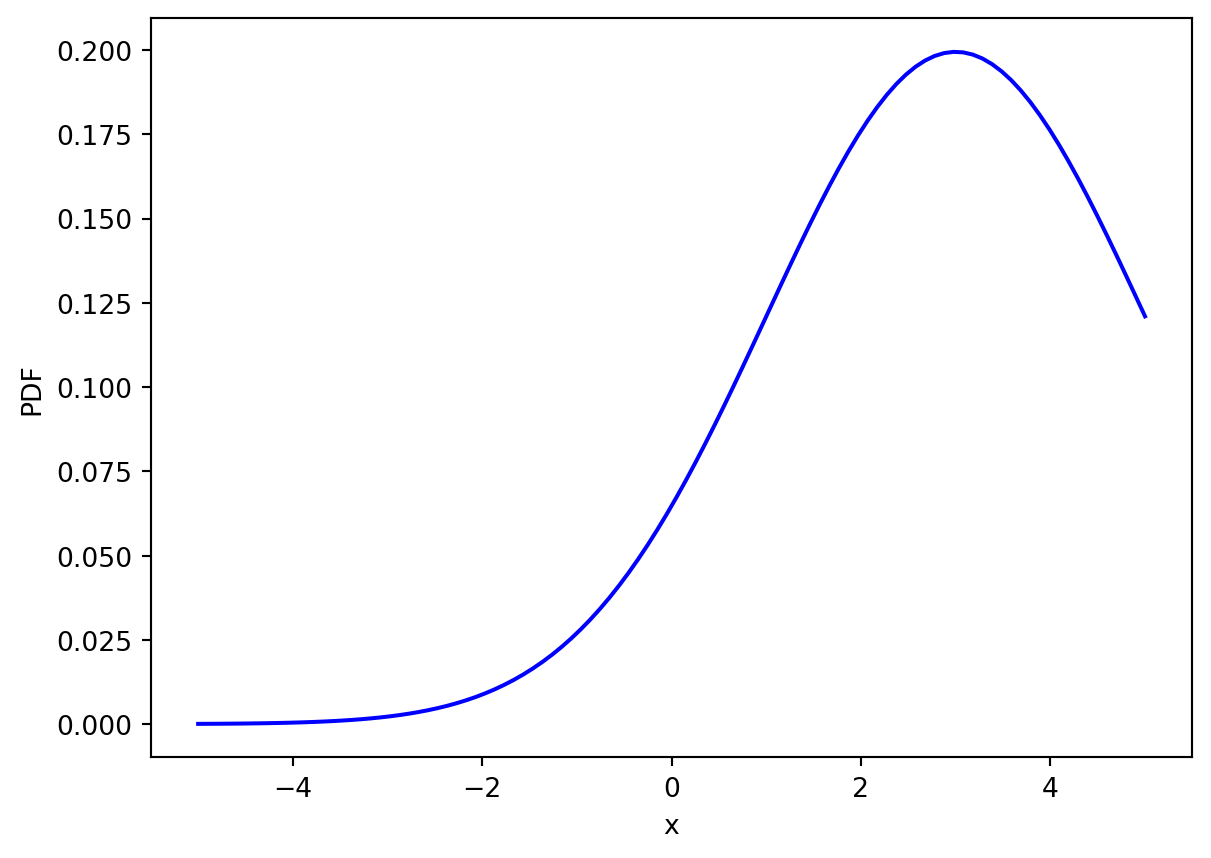
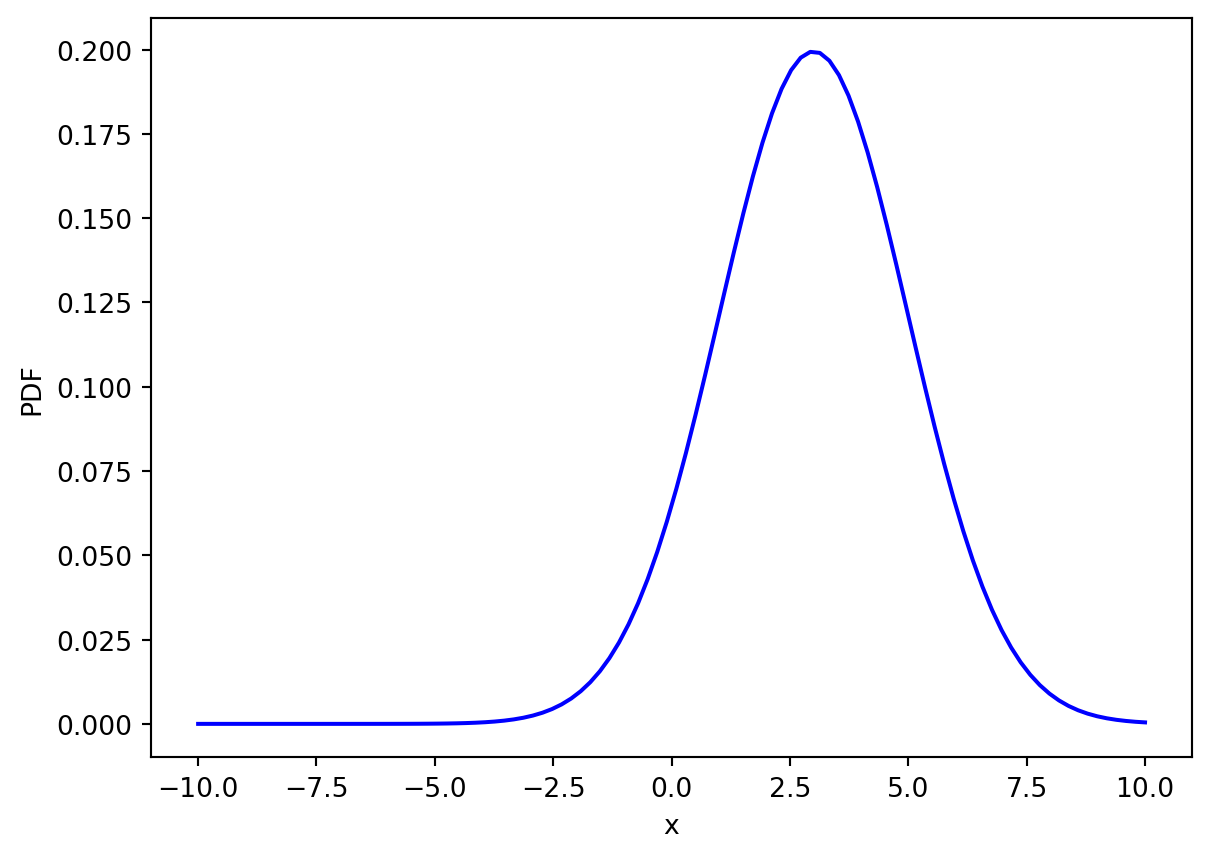
hw3

diff --git a/docs/posts/hw3/index.html b/docs/posts/hw3/index.html
@@ -198,7 +198,7 @@ pre > code.sourceCode > span > a:first-child::before { text-decoration: underlin
 
 <section id="정규분포-pdf-값을-계산하는-자신만의-파이썬-함수를-정의하고-정규분포-mu-3-sigma-2의-pdf를-그릴-것.-def-사용" class="level3">
 <h3 class="anchored" data-anchor-id="정규분포-pdf-값을-계산하는-자신만의-파이썬-함수를-정의하고-정규분포-mu-3-sigma-2의-pdf를-그릴-것.-def-사용">1. 정규분포 pdf 값을 계산하는 자신만의 파이썬 함수를 정의하고, 정규분포 mu = 3, sigma = 2의 pdf를 그릴 것. (def 사용)</h3>
-<div id="93d00500" class="cell" data-execution_count="1">
+<div id="8589307b" class="cell" data-execution_count="1">
 <div class="sourceCode cell-code" id="cb1"><pre class="sourceCode python code-with-copy"><code class="sourceCode python"><span id="cb1-1"><a href="#cb1-1" aria-hidden="true" tabindex="-1"></a><span class="co">#기본 코드 </span></span>
 <span id="cb1-2"><a href="#cb1-2" aria-hidden="true" tabindex="-1"></a><span class="co">#terminal에 쳐주고 시작하기 -&gt; pip install pandas</span></span>
 <span id="cb1-3"><a href="#cb1-3" aria-hidden="true" tabindex="-1"></a><span class="im">import</span> pandas <span class="im">as</span> pd </span>
@@ -206,30 +206,28 @@ pre > code.sourceCode > span > a:first-child::before { text-decoration: underlin
 <span id="cb1-5"><a href="#cb1-5" aria-hidden="true" tabindex="-1"></a><span class="im">from</span> scipy.stats <span class="im">import</span> norm</span>
 <span id="cb1-6"><a href="#cb1-6" aria-hidden="true" tabindex="-1"></a><span class="im">import</span> matplotlib.pyplot <span class="im">as</span> plt</span></code><button title="Copy to Clipboard" class="code-copy-button"><i class="bi"></i></button></pre></div>
 </div>
-<div id="14753db8" class="cell" data-execution_count="2">
-<div class="sourceCode cell-code" id="cb2"><pre class="sourceCode python code-with-copy"><code class="sourceCode python"><span id="cb2-1"><a href="#cb2-1" aria-hidden="true" tabindex="-1"></a><span class="co">#loc -&gt; mu</span></span>
-<span id="cb2-2"><a href="#cb2-2" aria-hidden="true" tabindex="-1"></a><span class="co">#scale -&gt; sigma</span></span>
-<span id="cb2-3"><a href="#cb2-3" aria-hidden="true" tabindex="-1"></a><span class="co">#정규분포 pdf -&gt; norm.pdf(x, mu, sigma) </span></span>
-<span id="cb2-4"><a href="#cb2-4" aria-hidden="true" tabindex="-1"></a></span>
-<span id="cb2-5"><a href="#cb2-5" aria-hidden="true" tabindex="-1"></a><span class="kw">def</span> normal_pdf(x, mu, sigma) : </span>
-<span id="cb2-6"><a href="#cb2-6" aria-hidden="true" tabindex="-1"></a>    <span class="co">"정규분포의 pdf를 계산하는 함수 </span><span class="ch">\</span></span>
-<span id="cb2-7"><a href="#cb2-7" aria-hidden="true" tabindex="-1"></a><span class="co">    loc -&gt; mu </span><span class="ch">\</span></span>
-<span id="cb2-8"><a href="#cb2-8" aria-hidden="true" tabindex="-1"></a><span class="co">    scale -&gt; sigma"</span></span>
+<div id="86e2d755" class="cell" data-execution_count="2">
+<div class="sourceCode cell-code" id="cb2"><pre class="sourceCode python code-with-copy"><code class="sourceCode python"><span id="cb2-1"><a href="#cb2-1" aria-hidden="true" tabindex="-1"></a><span class="co">#정규분포 pdf -&gt; norm.pdf(x, mu, sigma) </span></span>
+<span id="cb2-2"><a href="#cb2-2" aria-hidden="true" tabindex="-1"></a></span>
+<span id="cb2-3"><a href="#cb2-3" aria-hidden="true" tabindex="-1"></a><span class="kw">def</span> normal_pdf(x, mu, sigma) : </span>
+<span id="cb2-4"><a href="#cb2-4" aria-hidden="true" tabindex="-1"></a>    <span class="co">"정규분포의 pdf를 계산하는 함수 </span><span class="ch">\</span></span>
+<span id="cb2-5"><a href="#cb2-5" aria-hidden="true" tabindex="-1"></a><span class="co">    #loc -&gt; mu </span><span class="ch">\</span></span>
+<span id="cb2-6"><a href="#cb2-6" aria-hidden="true" tabindex="-1"></a><span class="co">    #scale -&gt; sigma"</span></span>
+<span id="cb2-7"><a href="#cb2-7" aria-hidden="true" tabindex="-1"></a>    </span>
+<span id="cb2-8"><a href="#cb2-8" aria-hidden="true" tabindex="-1"></a>    <span class="cf">return</span> (<span class="dv">1</span> <span class="op">/</span> (sigma <span class="op">*</span> np.sqrt(<span class="dv">2</span> <span class="op">*</span> np.pi))) <span class="op">*</span> np.exp(<span class="op">-</span>((x <span class="op">-</span> mu) <span class="op">**</span> <span class="dv">2</span>) <span class="op">/</span> (<span class="dv">2</span> <span class="op">*</span> sigma <span class="op">**</span> <span class="dv">2</span>))</span>
 <span id="cb2-9"><a href="#cb2-9" aria-hidden="true" tabindex="-1"></a>    </span>
-<span id="cb2-10"><a href="#cb2-10" aria-hidden="true" tabindex="-1"></a>    <span class="cf">return</span> (<span class="dv">1</span> <span class="op">/</span> (sigma <span class="op">*</span> np.sqrt(<span class="dv">2</span> <span class="op">*</span> np.pi))) <span class="op">*</span> np.exp(<span class="op">-</span>((x <span class="op">-</span> mu) <span class="op">**</span> <span class="dv">2</span>) <span class="op">/</span> (<span class="dv">2</span> <span class="op">*</span> sigma <span class="op">**</span> <span class="dv">2</span>))</span>
-<span id="cb2-11"><a href="#cb2-11" aria-hidden="true" tabindex="-1"></a>    </span>
-<span id="cb2-12"><a href="#cb2-12" aria-hidden="true" tabindex="-1"></a>mu <span class="op">=</span> <span class="dv">3</span></span>
-<span id="cb2-13"><a href="#cb2-13" aria-hidden="true" tabindex="-1"></a>sigma <span class="op">=</span> <span class="dv">2</span></span>
-<span id="cb2-14"><a href="#cb2-14" aria-hidden="true" tabindex="-1"></a></span>
-<span id="cb2-15"><a href="#cb2-15" aria-hidden="true" tabindex="-1"></a>x <span class="op">=</span> np.linspace(<span class="op">-</span><span class="dv">5</span>, <span class="dv">5</span>, <span class="dv">100</span>)</span>
-<span id="cb2-16"><a href="#cb2-16" aria-hidden="true" tabindex="-1"></a>pdf <span class="op">=</span> normal_pdf(x, mu, sigma)</span>
-<span id="cb2-17"><a href="#cb2-17" aria-hidden="true" tabindex="-1"></a></span>
-<span id="cb2-18"><a href="#cb2-18" aria-hidden="true" tabindex="-1"></a><span class="co">#그래프</span></span>
-<span id="cb2-19"><a href="#cb2-19" aria-hidden="true" tabindex="-1"></a>plt.plot(x, pdf, color <span class="op">=</span> <span class="st">"blue"</span>)</span>
-<span id="cb2-20"><a href="#cb2-20" aria-hidden="true" tabindex="-1"></a>plt.xlabel(<span class="st">'x'</span>)</span>
-<span id="cb2-21"><a href="#cb2-21" aria-hidden="true" tabindex="-1"></a>plt.ylabel(<span class="st">'PDF'</span>)</span>
-<span id="cb2-22"><a href="#cb2-22" aria-hidden="true" tabindex="-1"></a>plt.show()</span>
-<span id="cb2-23"><a href="#cb2-23" aria-hidden="true" tabindex="-1"></a>plt.clf()</span></code><button title="Copy to Clipboard" class="code-copy-button"><i class="bi"></i></button></pre></div>
+<span id="cb2-10"><a href="#cb2-10" aria-hidden="true" tabindex="-1"></a>mu <span class="op">=</span> <span class="dv">3</span></span>
+<span id="cb2-11"><a href="#cb2-11" aria-hidden="true" tabindex="-1"></a>sigma <span class="op">=</span> <span class="dv">2</span></span>
+<span id="cb2-12"><a href="#cb2-12" aria-hidden="true" tabindex="-1"></a></span>
+<span id="cb2-13"><a href="#cb2-13" aria-hidden="true" tabindex="-1"></a>x <span class="op">=</span> np.linspace(<span class="op">-</span><span class="dv">10</span>, <span class="dv">10</span>, <span class="dv">100</span>)</span>
+<span id="cb2-14"><a href="#cb2-14" aria-hidden="true" tabindex="-1"></a>pdf <span class="op">=</span> normal_pdf(x, mu, sigma)</span>
+<span id="cb2-15"><a href="#cb2-15" aria-hidden="true" tabindex="-1"></a></span>
+<span id="cb2-16"><a href="#cb2-16" aria-hidden="true" tabindex="-1"></a><span class="co">#그래프</span></span>
+<span id="cb2-17"><a href="#cb2-17" aria-hidden="true" tabindex="-1"></a>plt.plot(x, pdf, color <span class="op">=</span> <span class="st">"blue"</span>)</span>
+<span id="cb2-18"><a href="#cb2-18" aria-hidden="true" tabindex="-1"></a>plt.xlabel(<span class="st">'x'</span>)</span>
+<span id="cb2-19"><a href="#cb2-19" aria-hidden="true" tabindex="-1"></a>plt.ylabel(<span class="st">'PDF'</span>)</span>
+<span id="cb2-20"><a href="#cb2-20" aria-hidden="true" tabindex="-1"></a>plt.show()</span>
+<span id="cb2-21"><a href="#cb2-21" aria-hidden="true" tabindex="-1"></a>plt.clf()</span></code><button title="Copy to Clipboard" class="code-copy-button"><i class="bi"></i></button></pre></div>
 <div class="cell-output cell-output-display">
 <div>
 <figure class="figure">
@@ -245,7 +243,7 @@ pre > code.sourceCode > span > a:first-child::before { text-decoration: underlin
 <section id="파이썬-scipy-패키지-사용해서-다음과-같은-확률을-구하시오." class="level3">
 <h3 class="anchored" data-anchor-id="파이썬-scipy-패키지-사용해서-다음과-같은-확률을-구하시오.">2. 파이썬 scipy 패키지 사용해서 다음과 같은 확률을 구하시오.</h3>
 <p>X ~ N(2, 3^2) 1) P(X &lt; 3) 2) P(2 &lt; X &lt; 5) 3) P(X &lt; 3 or X&lt;7)</p>
-<div id="82a4b19e" class="cell" data-execution_count="3">
+<div id="a26764d9" class="cell" data-execution_count="3">
 <div class="sourceCode cell-code" id="cb4"><pre class="sourceCode python code-with-copy"><code class="sourceCode python"><span id="cb4-1"><a href="#cb4-1" aria-hidden="true" tabindex="-1"></a><span class="co">#X ~ N() -&gt; norm.rvs</span></span>
 <span id="cb4-2"><a href="#cb4-2" aria-hidden="true" tabindex="-1"></a><span class="co">#X ~ N(2, 3^2) -&gt; norm.rvs(loc = 2, scale = 3, size = 1) </span></span>
 <span id="cb4-3"><a href="#cb4-3" aria-hidden="true" tabindex="-1"></a></span>
@@ -257,7 +255,7 @@ pre > code.sourceCode > span > a:first-child::before { text-decoration: underlin
 <pre><code>np.float64(0.6305586598182363)</code></pre>
 </div>
 </div>
-<div id="c601682e" class="cell" data-execution_count="4">
+<div id="ed686f48" class="cell" data-execution_count="4">
 <div class="sourceCode cell-code" id="cb6"><pre class="sourceCode python code-with-copy"><code class="sourceCode python"><span id="cb6-1"><a href="#cb6-1" aria-hidden="true" tabindex="-1"></a><span class="co">#2) P(2 &lt; X &lt; 5)</span></span>
 <span id="cb6-2"><a href="#cb6-2" aria-hidden="true" tabindex="-1"></a>b <span class="op">=</span> norm.cdf(<span class="dv">5</span>, <span class="dv">2</span>, <span class="dv">3</span>)</span>
 <span id="cb6-3"><a href="#cb6-3" aria-hidden="true" tabindex="-1"></a>c <span class="op">=</span> norm.cdf(<span class="dv">2</span>, <span class="dv">2</span>, <span class="dv">3</span>)</span>
@@ -266,7 +264,7 @@ pre > code.sourceCode > span > a:first-child::before { text-decoration: underlin
 <pre><code>np.float64(0.3413447460685429)</code></pre>
 </div>
 </div>
-<div id="eac5d37a" class="cell" data-execution_count="5">
+<div id="37b7f69d" class="cell" data-execution_count="5">
 <div class="sourceCode cell-code" id="cb8"><pre class="sourceCode python code-with-copy"><code class="sourceCode python"><span id="cb8-1"><a href="#cb8-1" aria-hidden="true" tabindex="-1"></a><span class="co">#3) P(X &lt; 3 or X&lt;7)</span></span>
 <span id="cb8-2"><a href="#cb8-2" aria-hidden="true" tabindex="-1"></a>d <span class="op">=</span> norm.cdf(<span class="dv">3</span>, <span class="dv">2</span>, <span class="dv">3</span>)</span>
 <span id="cb8-3"><a href="#cb8-3" aria-hidden="true" tabindex="-1"></a>e <span class="op">=</span> norm.cdf(<span class="dv">7</span>, <span class="dv">2</span>, <span class="dv">3</span>)</span>
@@ -278,19 +276,15 @@ pre > code.sourceCode > span > a:first-child::before { text-decoration: underlin
 </section>
 <section id="ls-빅데이터-스쿨-학생들의-중간고사-점수는-평균이-30이고-분산이-4인-정규분포를-따른다.-상위-5에-해당하는-학생의-점수는" class="level3">
 <h3 class="anchored" data-anchor-id="ls-빅데이터-스쿨-학생들의-중간고사-점수는-평균이-30이고-분산이-4인-정규분포를-따른다.-상위-5에-해당하는-학생의-점수는">3. LS 빅데이터 스쿨 학생들의 중간고사 점수는 평균이 30이고, 분산이 4인 정규분포를 따른다. 상위 5%에 해당하는 학생의 점수는?</h3>
-<div id="1670b579" class="cell" data-execution_count="6">
+<div id="33a307a4" class="cell" data-execution_count="6">
 <div class="sourceCode cell-code" id="cb10"><pre class="sourceCode python code-with-copy"><code class="sourceCode python"><span id="cb10-1"><a href="#cb10-1" aria-hidden="true" tabindex="-1"></a><span class="co">#평균이 3, 분산이 4, 표준편차가 2 </span></span>
 <span id="cb10-2"><a href="#cb10-2" aria-hidden="true" tabindex="-1"></a>loc <span class="op">=</span> <span class="dv">30</span></span>
 <span id="cb10-3"><a href="#cb10-3" aria-hidden="true" tabindex="-1"></a>scale <span class="op">=</span> <span class="dv">2</span></span>
 <span id="cb10-4"><a href="#cb10-4" aria-hidden="true" tabindex="-1"></a></span>
-<span id="cb10-5"><a href="#cb10-5" aria-hidden="true" tabindex="-1"></a>x <span class="op">=</span> norm.rvs(loc, scale, size <span class="op">=</span> <span class="dv">28</span>)</span>
-<span id="cb10-6"><a href="#cb10-6" aria-hidden="true" tabindex="-1"></a>x</span>
-<span id="cb10-7"><a href="#cb10-7" aria-hidden="true" tabindex="-1"></a></span>
-<span id="cb10-8"><a href="#cb10-8" aria-hidden="true" tabindex="-1"></a>x_5 <span class="op">=</span> norm.pdf(<span class="fl">0.95</span>)</span>
-<span id="cb10-9"><a href="#cb10-9" aria-hidden="true" tabindex="-1"></a>x_5_score <span class="op">=</span> loc <span class="op">+</span> x_5 <span class="op">*</span> scale</span>
-<span id="cb10-10"><a href="#cb10-10" aria-hidden="true" tabindex="-1"></a>x_5_score </span></code><button title="Copy to Clipboard" class="code-copy-button"><i class="bi"></i></button></pre></div>
+<span id="cb10-5"><a href="#cb10-5" aria-hidden="true" tabindex="-1"></a>x <span class="op">=</span> norm.pdf(<span class="fl">0.95</span>, loc, scale)</span>
+<span id="cb10-6"><a href="#cb10-6" aria-hidden="true" tabindex="-1"></a>x</span></code><button title="Copy to Clipboard" class="code-copy-button"><i class="bi"></i></button></pre></div>
 <div class="cell-output cell-output-display" data-execution_count="6">
-<pre><code>np.float64(30.508118112938376)</code></pre>
+<pre><code>np.float64(3.0697654467048023e-47)</code></pre>
 </div>
 </div>
 

diff --git a/docs/blog.html b/docs/blog.html
@@ -202,7 +202,7 @@ window.Quarto = {
 
 <div class="quarto-listing quarto-listing-container-default" id="listing-listing">
 <div class="list quarto-listing-default">
-<div class="quarto-post image-right" data-index="0" data-categories="bigdata" data-listing-date-sort="1721833200000" data-listing-file-modified-sort="1721897159048" data-listing-date-modified-sort="NaN" data-listing-reading-time-sort="2" data-listing-word-count-sort="236">
+<div class="quarto-post image-right" data-index="0" data-categories="bigdata" data-listing-date-sort="1721833200000" data-listing-file-modified-sort="1721900348803" data-listing-date-modified-sort="NaN" data-listing-reading-time-sort="2" data-listing-word-count-sort="221">
 <div class="thumbnail">
 <p><a href="./posts/hw3/index.html" class="no-external"></a></p><a href="./posts/hw3/index.html" class="no-external">
 <p class="card-img-top"><img src="posts\hw3\index_files\figure-html\cell-3-output-1.png"  class="thumbnail-image card-img"/></p>
